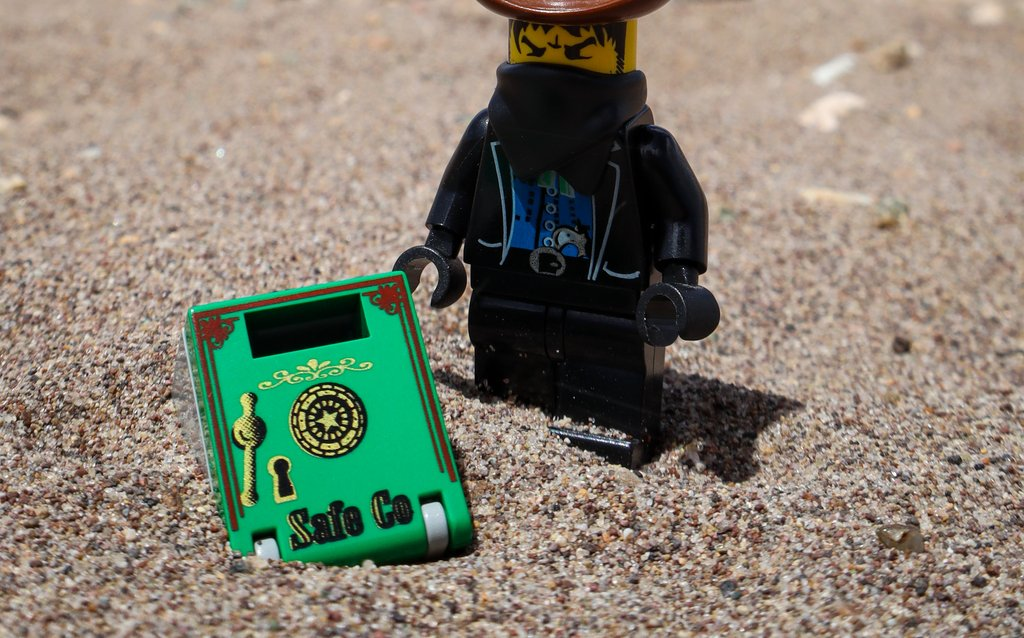
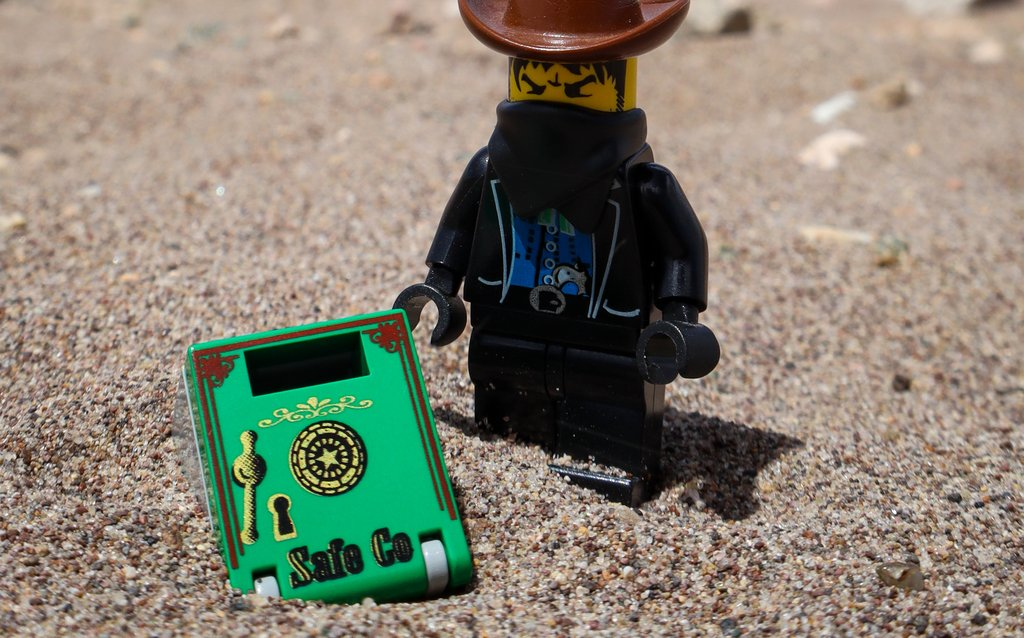
Shift crop up slightly, trim shop label text

diff --git a/index.md b/index.md
@@ -44,7 +44,7 @@ permalink: /
 
   <a class="preview-card" href="{{ site.baseurl }}/shop/">
     <img src="{{ site.baseurl }}/photos/about/shop-preview.jpg" alt="Shop">
-    <span class="preview-label">Shop<br><small>Minifigs, used sets, random parts, and prints</small></span>
+    <span class="preview-label">Shop<br><small>Minifigs, used sets, and prints</small></span>
   </a>
 
 </div>
